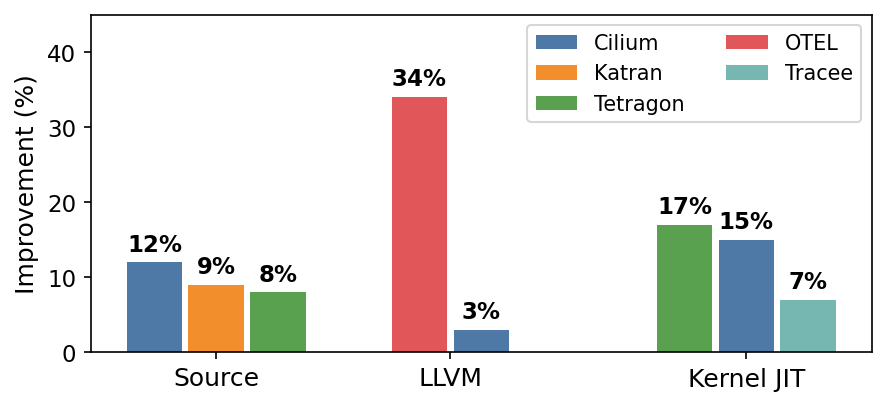
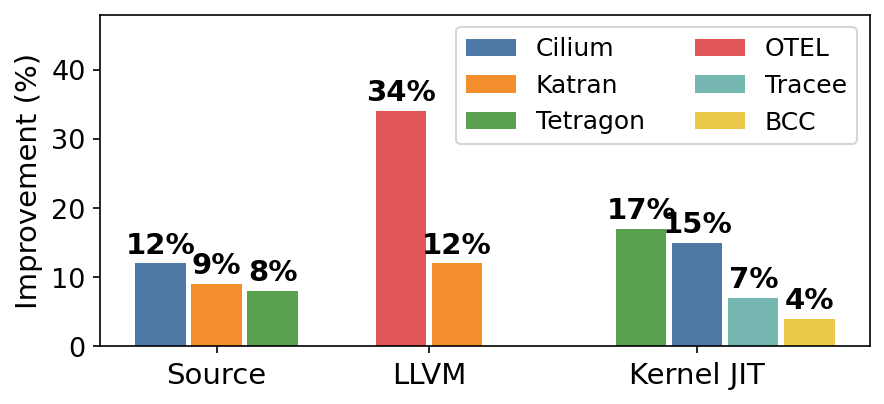
Update optimization results visualization and enhance figure clarity in main.tex and plot_layers.py

Changed region(s): [[0.0, 0.0297, 0.9774, 0.9802]]

diff --git a/main.tex b/main.tex
@@ -207,7 +207,7 @@ At the source layer, rewriting eBPF C code improved workload throughput by up to
 % 在源码层，重写 eBPF C 代码在 Cilium 上提升了最高 12\% 的工作负载吞吐量，Katran 9\%，Tetragon 8\%。
 At the LLVM/bytecode layer, the map\_inline pass speculatively inlines map lookups with constant values, achieving 34\% BPF speedup on OTEL and 0.89$\times$ suite-wide geomean.
 % 在 LLVM/字节码层，map\_inline pass 将 map 查找推测性内联为常量值，在 OTEL 上实现 34\% BPF 加速，suite-wide geomean 为 0.89x。
-At the kernel JIT layer, the kinsn pass (which emits native operations via Kops) achieved 6\% BPF speedup on x86 across 6 apps and 21\% speedup on ARM64 microbenchmarks (Table~\ref{tab:results}).
+At the kernel JIT layer, the kinsn pass (which emits native operations via Kops) achieved 6\% BPF speedup on x86 across 6 apps and 21\% speedup on ARM64 microbenchmarks (Figure~\ref{fig:layers}).
 % 在内核 JIT 层，kinsn pass（通过 Kops 生成原生操作）在 x86 上的 6 个应用中实现 6\% BPF 加速，在 ARM64 微基准上实现 21\% 加速（表 2）。
 
 \paragraph{Agent exploration process.}
@@ -218,28 +218,14 @@ Figure~\ref{fig:timeline} shows the exploration timeline with key discoveries an
 The exploration revealed that per-program tuning is essential because the same kinsn pass that speeds up tracee by 7\% causes OTEL to regress by 7\%, and static policies cannot capture this variance.
 % 探索揭示了逐程序调优是必要的，因为让 tracee 加速 7% 的同一个 kinsn pass 导致 OTEL 回退 7%，静态策略无法捕捉这种差异。
 
-\begin{table}[t]
-\footnotesize
+\begin{figure}[t]
 \centering
-\setlength{\tabcolsep}{3pt}
-\caption{Per-app kinsn optimization results (x86 corpus, tuned policy).}
-% 表 2：每应用 kinsn 优化结果（x86 corpus，调优后的策略）。
-\label{tab:results}
-\begin{tabular}{lrrr}
-\hline
-App & BPF Geomean & Wins/Losses & Sites Applied \\
-\hline
-tracee & 0.93$\times$ & 35/5 & 14,833 \\
-tetragon & 0.83$\times$ & 5/0 & 2,891 \\
-cilium & 0.85$\times$ & 2/0 & 4,086 \\
-bcc & 0.96$\times$ & 11/4 & 77 \\
-katran & 0.94$\times$ & 1/0 & 90 \\
-otel & 1.07$\times$ & 0/1 & 1,475 \\
-\hline
-\textbf{Overall} & \textbf{0.94$\times$} & 54/10 & 23,452 \\
-\hline
-\end{tabular}
-\end{table}
+\includegraphics[width=\linewidth]{layers.pdf}
+\caption{Best optimization results per compilation layer. Each app is color-coded; the same app may benefit from different layers.}
+% 图：每层最佳优化结果。每个 app 用颜色区分；同一个 app 可能在不同层受益。
+\label{fig:layers}
+\Description{Bar chart showing best optimization results per layer.}
+\end{figure}
 
 \begin{figure}[t]
 \centering

diff --git a/plot_layers.py b/plot_layers.py
@@ -11,12 +11,13 @@ app_colors = {
     'Tetragon': '#59a14f',
     'OTEL': '#e15759',
     'Tracee': '#76b7b2',
+    'BCC': '#edc949',
 }
 
 # Best few apps per layer
 source_data = [('Cilium', 12), ('Katran', 9), ('Tetragon', 8)]
-llvm_data = [('OTEL', 34), ('Cilium', 3)]
-kernel_data = [('Tetragon', 17), ('Cilium', 15), ('Tracee', 7)]
+llvm_data = [('OTEL', 34), ('Katran', 12)]
+kernel_data = [('Tetragon', 17), ('Cilium', 15), ('Tracee', 7), ('BCC', 4)]
 
 fig, ax = plt.subplots(figsize=(6, 2.8))
 
@@ -28,7 +29,7 @@ x_base = 0
 for i, (app, val) in enumerate(source_data):
     label = app if app not in used_apps else ''
     ax.bar(x_base + i * width, val, width * 0.9, color=app_colors[app], label=label)
-    ax.text(x_base + i * width, val + 1.5, f'{val}%', ha='center', fontsize=11, fontweight='bold')
+    ax.text(x_base + i * width, val + 1.5, f'{val}%', ha='center', fontsize=14, fontweight='bold')
     used_apps.add(app)
 
 # LLVM layer (position 1.2)
@@ -36,7 +37,7 @@ x_base = 1.2
 for i, (app, val) in enumerate(llvm_data):
     label = app if app not in used_apps else ''
     ax.bar(x_base + i * width, val, width * 0.9, color=app_colors[app], label=label)
-    ax.text(x_base + i * width, val + 1.5, f'{val}%', ha='center', fontsize=11, fontweight='bold')
+    ax.text(x_base + i * width, val + 1.5, f'{val}%', ha='center', fontsize=14, fontweight='bold')
     used_apps.add(app)
 
 # Kernel JIT layer (position 2.4)
@@ -44,15 +45,15 @@ x_base = 2.4
 for i, (app, val) in enumerate(kernel_data):
     label = app if app not in used_apps else ''
     ax.bar(x_base + i * width, val, width * 0.9, color=app_colors[app], label=label)
-    ax.text(x_base + i * width, val + 1.5, f'{val}%', ha='center', fontsize=11, fontweight='bold')
+    ax.text(x_base + i * width, val + 1.5, f'{val}%', ha='center', fontsize=14, fontweight='bold')
     used_apps.add(app)
 
-ax.set_ylabel('Improvement (%)', fontsize=12)
+ax.set_ylabel('Improvement (%)', fontsize=14)
 ax.set_xticks([0.28, 1.34, 2.68])
-ax.set_xticklabels(['Source', 'LLVM', 'Kernel JIT'], fontsize=12)
-ax.tick_params(axis='y', labelsize=11)
-ax.set_ylim(0, 45)
-ax.legend(loc='upper right', fontsize=10, ncol=2)
+ax.set_xticklabels(['Source', 'LLVM', 'Kernel JIT'], fontsize=14)
+ax.tick_params(axis='y', labelsize=13)
+ax.set_ylim(0, 48)
+ax.legend(loc='upper right', fontsize=12, ncol=2)
 
 plt.tight_layout()
 plt.savefig('layers.pdf', bbox_inches='tight', dpi=300)